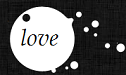
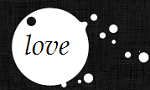
design view

diff --git a/assests/CSS/style.css b/assests/CSS/style.css
@@ -19,6 +19,18 @@ ul
 	margin: 0px;
 }
 
+h1{
+	padding: 0px;
+	margin: 0px;
+}
+	
+h6{
+	padding: 0px;
+	margin: 0px;
+}
+
+
+
 #header{
 	margin-bottom:2px;
 	position: relative;
@@ -31,9 +43,21 @@ ul
 	display: inline-block;
 }
 
+.top-banner hgroup
+{
+	margin-top: 20px;
+	margin-left: 20px;
+}
+
+.header-banner
+{
+	margin-right: 30px;
+	margin-top: 10px;
+}
+
 #middle{
 	display: block;
-	height: 1000px;
+	height: 300px;
 	background-image: url(/sweetb.com/assests/images/middle-bg.jpg);
 }
 
@@ -60,6 +84,8 @@ ul
 
 #footer
 {
+	padding-top: 50px;
+	padding-bottom:50px;
 	clear: both;
 	text-align: center;
 	margin-top:2px;

diff --git a/application/views/main.php b/application/views/main.php
@@ -9,6 +9,8 @@
 			<?php $this->load->view("top");?>
 		</header>
 		<div id="middle">this is body!</div>
-		<footer id="footer">this is footer</footer>
+		<footer id="footer">
+			<?php $this->load->view("bottom");?>
+		</footer>
 	</body>
 </html>

diff --git a/application/views/bottom.php b/application/views/bottom.php
@@ -1,0 +1,6 @@
+<img src="/sweetb.com/assests/images/BackToTop.PNG"/>
+<div>
+	<a>SweetB.com</a><br />
+	<a>A Project By Poyoko</a><br />
+	<a>And Belasco </a>
+</div>

diff --git a/application/views/top.php b/application/views/top.php
@@ -17,5 +17,8 @@
 		<li>Boys</li>
 		<li>Top 20</li>
 		<li>Other</li>
+		<li>
+			<input type="text" />
+		</li>
 	</ul>
 </nav>
